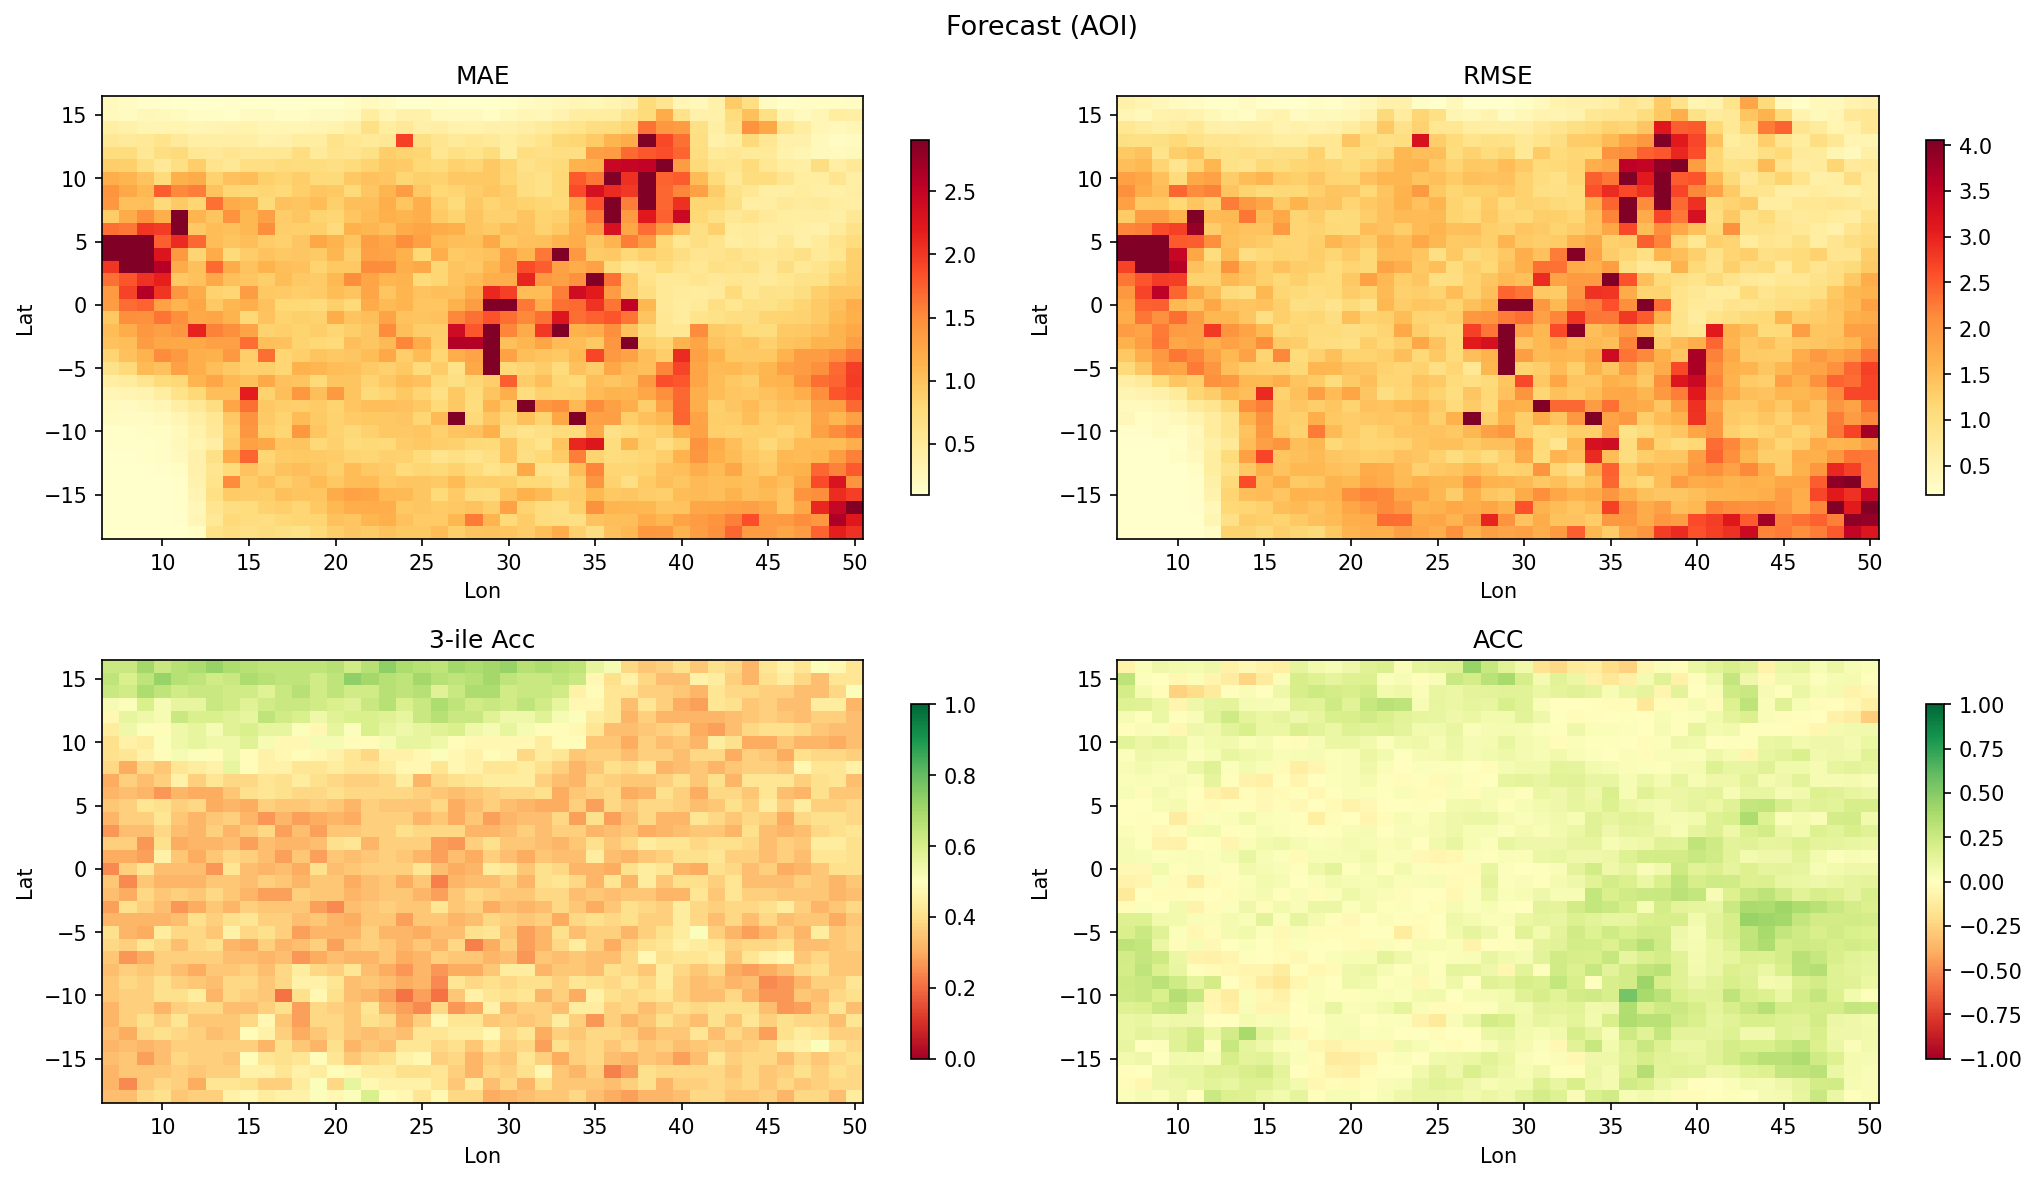
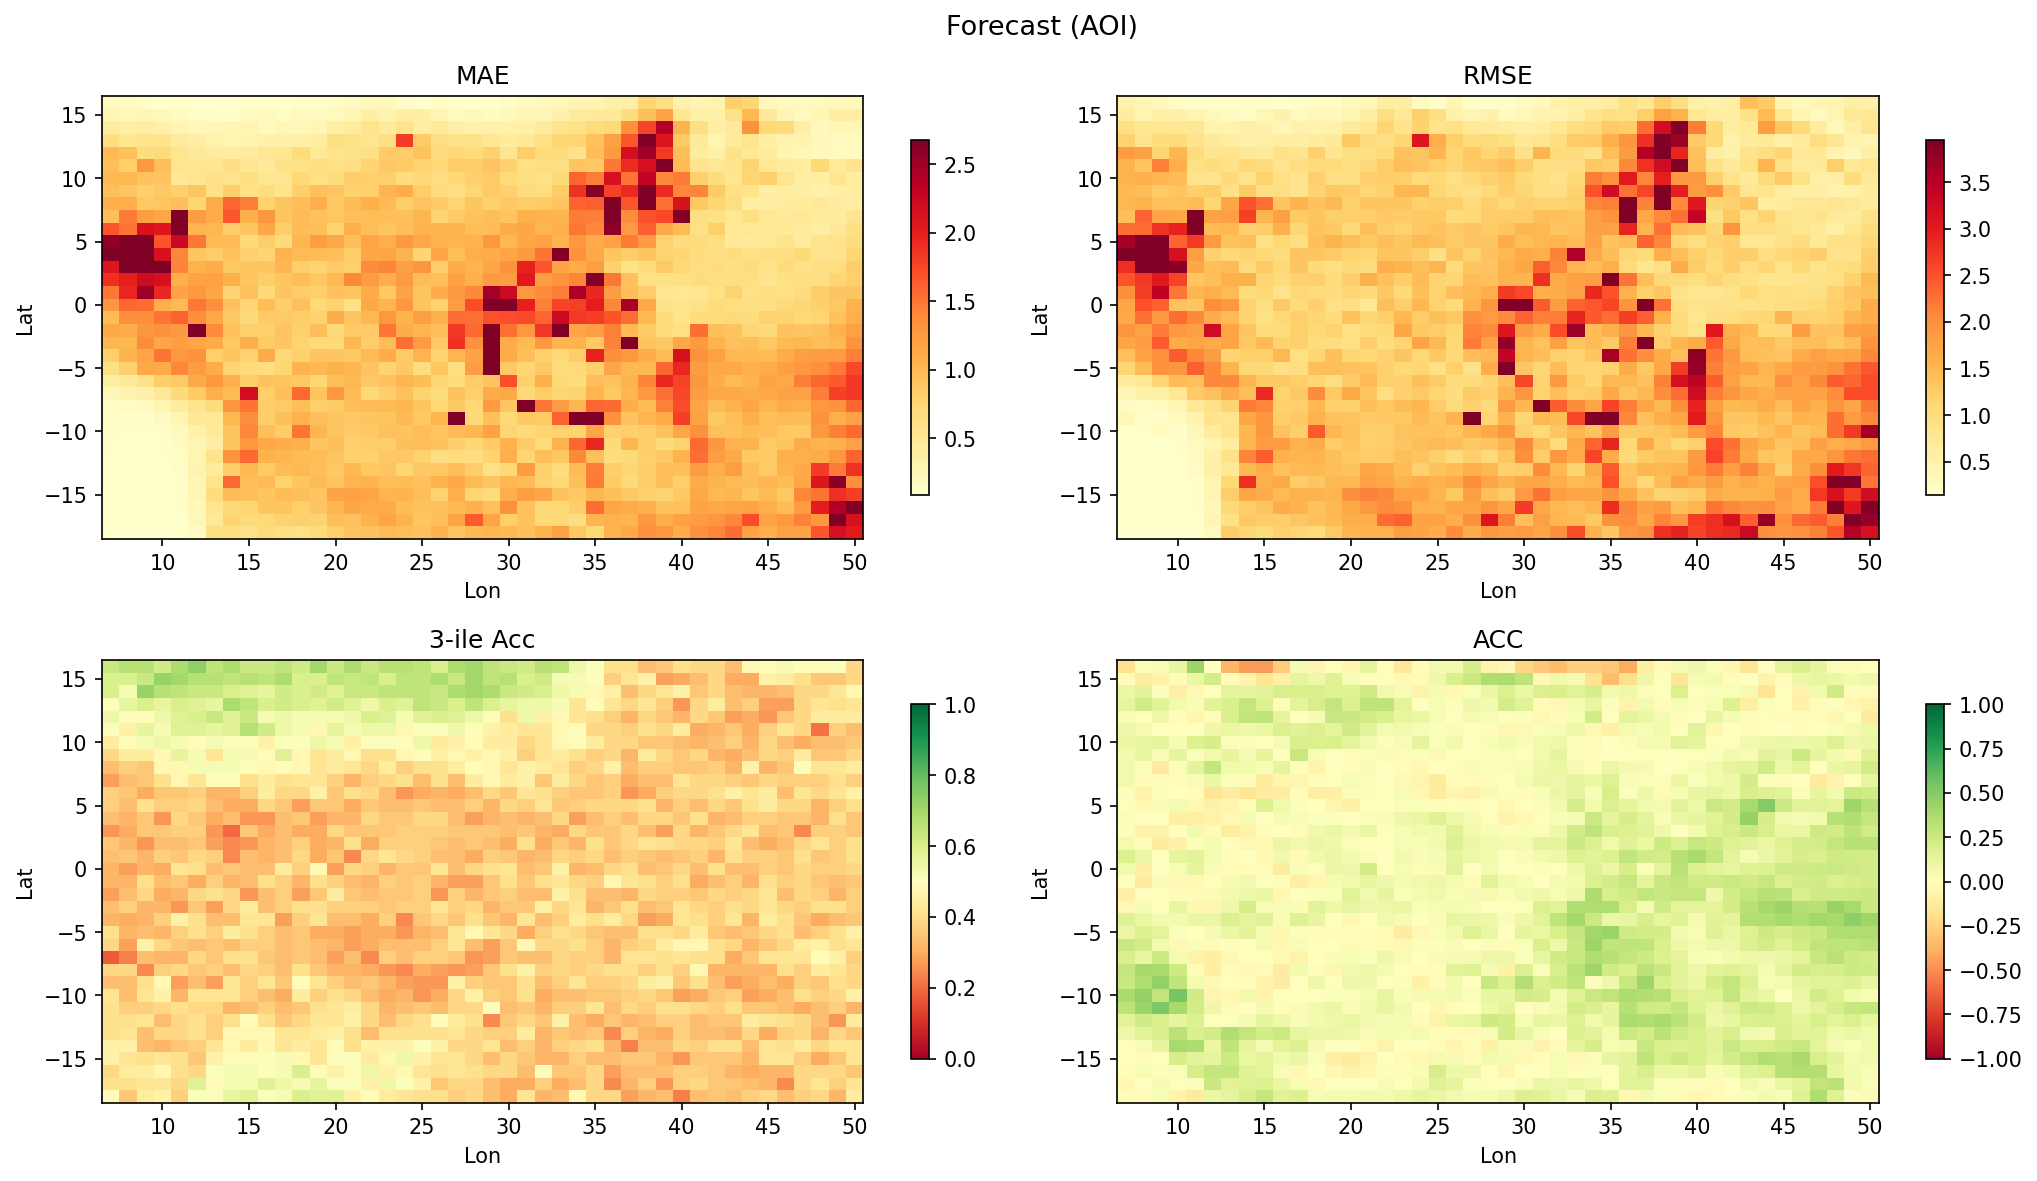
update aoi maps + README

diff --git a/README.md b/README.md
@@ -20,10 +20,10 @@ ACC:        0.0445
 ## Results in Central Africa AOI
 ```
 --- Forecast (AOI) ---
-MAE:        1.0484
-RMSE:       1.5547
-3-ile acc: 0.3382
-ACC:        0.0739
+MAE:        0.9797
+RMSE:       1.4941
+3-ile acc: 0.4001
+ACC:        0.0897
 
 --- Baseline (AOI) ---
 MAE:        1.2330
